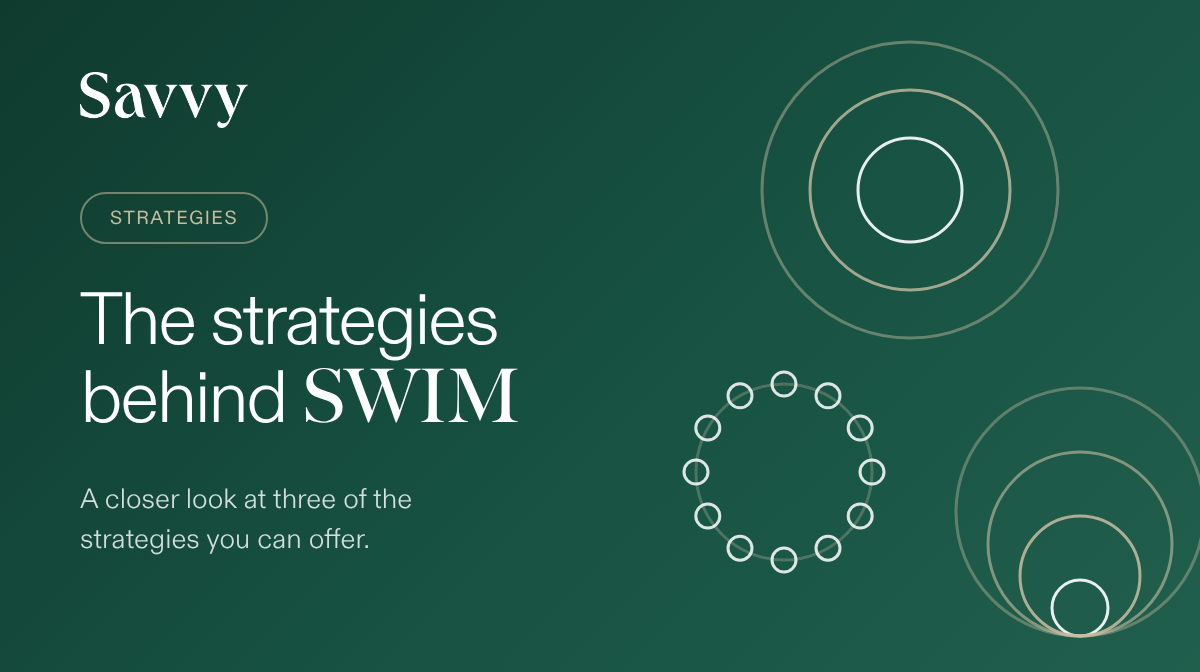
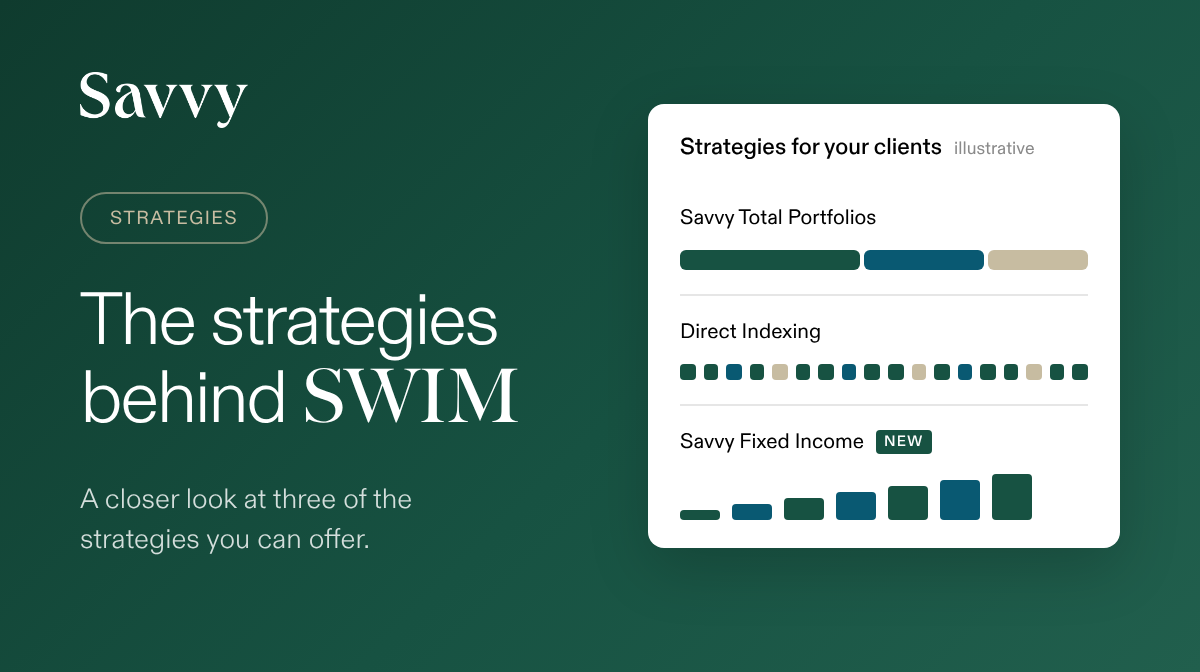
Email 4: abstract strategies UI card in header
Claude-Session: https://claude.ai/code/session_01C4U8FBFynJxChWkXC4yVRQ

diff --git a/emails/header-4.html b/emails/header-4.html
@@ -37,7 +37,7 @@
     <h1>The strategies<br>behind <span class='serif'>SWIM</span></h1>
     <div class="sub">A closer look at three of the<br>strategies you can offer.</div>
   </div>
-  <svg class="art" width="600" height="336" viewBox="0 0 600 336" fill="none" stroke-width="1.5"><g><circle cx="455" cy="95" r="26" stroke="#fff" stroke-opacity=".9"/><circle cx="455" cy="95" r="50" stroke="#C7BCA1" stroke-opacity=".8"/><circle cx="455" cy="95" r="74" stroke="#C7BCA1" stroke-opacity=".45"/></g><g><circle cx="392" cy="236" r="44" stroke="#C7BCA1" stroke-opacity=".3"/><circle cx="392.0" cy="192.0" r="6" stroke="#fff" stroke-opacity=".85"/><circle cx="414.0" cy="197.9" r="6" stroke="#fff" stroke-opacity=".85"/><circle cx="430.1" cy="214.0" r="6" stroke="#fff" stroke-opacity=".85"/><circle cx="436.0" cy="236.0" r="6" stroke="#fff" stroke-opacity=".85"/><circle cx="430.1" cy="258.0" r="6" stroke="#fff" stroke-opacity=".85"/><circle cx="414.0" cy="274.1" r="6" stroke="#fff" stroke-opacity=".85"/><circle cx="392.0" cy="280.0" r="6" stroke="#fff" stroke-opacity=".85"/><circle cx="370.0" cy="274.1" r="6" stroke="#fff" stroke-opacity=".85"/><circle cx="353.9" cy="258.0" r="6" stroke="#fff" stroke-opacity=".85"/><circle cx="348.0" cy="236.0" r="6" stroke="#fff" stroke-opacity=".85"/><circle cx="353.9" cy="214.0" r="6" stroke="#fff" stroke-opacity=".85"/><circle cx="370.0" cy="197.9" r="6" stroke="#fff" stroke-opacity=".85"/></g><g><circle cx="540" cy="304" r="14" stroke="#fff" stroke-opacity="0.9"/><circle cx="540" cy="288" r="30" stroke="#C7BCA1" stroke-opacity="0.85"/><circle cx="540" cy="272" r="46" stroke="#C7BCA1" stroke-opacity="0.6"/><circle cx="540" cy="256" r="62" stroke="#C7BCA1" stroke-opacity="0.4"/></g></svg>
-  <div class="right"></div>
+  
+  <div class="right"><div class="card" style="padding:14px 16px 2px;"><div style="display:flex;align-items:baseline;gap:6px;font-size:11.5px;font-weight:500;margin-bottom:10px;">Strategies for your clients <span style="font-weight:400;font-size:9px;color:#8a8a8a;">illustrative</span></div><div style="padding:12px 0;"><div style="font-size:10.5px;line-height:13px;">Savvy Total Portfolios</div><div style="margin-top:9px;"><div style="display:flex;gap:2px;height:10px;"><div style="flex:45;background:#175242;border-radius:3px;"></div><div style="flex:30;background:#095972;border-radius:3px;"></div><div style="flex:25;background:#C7BCA1;border-radius:3px;"></div></div></div></div><div style="padding:12px 0;border-top:1px solid #E6E6E6;"><div style="font-size:10.5px;line-height:13px;">Direct Indexing</div><div style="margin-top:9px;"><div style="display:flex;gap:4px;"><div style="width:8px;height:8px;border-radius:2px;background:#175242;"></div><div style="width:8px;height:8px;border-radius:2px;background:#175242;"></div><div style="width:8px;height:8px;border-radius:2px;background:#095972;"></div><div style="width:8px;height:8px;border-radius:2px;background:#175242;"></div><div style="width:8px;height:8px;border-radius:2px;background:#C7BCA1;"></div><div style="width:8px;height:8px;border-radius:2px;background:#175242;"></div><div style="width:8px;height:8px;border-radius:2px;background:#175242;"></div><div style="width:8px;height:8px;border-radius:2px;background:#095972;"></div><div style="width:8px;height:8px;border-radius:2px;background:#175242;"></div><div style="width:8px;height:8px;border-radius:2px;background:#175242;"></div><div style="width:8px;height:8px;border-radius:2px;background:#C7BCA1;"></div><div style="width:8px;height:8px;border-radius:2px;background:#175242;"></div><div style="width:8px;height:8px;border-radius:2px;background:#095972;"></div><div style="width:8px;height:8px;border-radius:2px;background:#175242;"></div><div style="width:8px;height:8px;border-radius:2px;background:#175242;"></div><div style="width:8px;height:8px;border-radius:2px;background:#C7BCA1;"></div><div style="width:8px;height:8px;border-radius:2px;background:#175242;"></div><div style="width:8px;height:8px;border-radius:2px;background:#175242;"></div></div></div></div><div style="padding:12px 0;border-top:1px solid #E6E6E6;"><div style="font-size:10.5px;line-height:13px;">Savvy Fixed Income<span style="display:inline-block;margin-left:6px;padding:2px 4px;background:#175242;border-radius:2px;font-size:7.5px;line-height:8px;letter-spacing:.08em;text-transform:uppercase;color:#fff;font-weight:500;vertical-align:1px;">New</span></div><div style="margin-top:9px;"><div style="display:flex;align-items:flex-end;gap:6px;height:23px;"><div style="width:20px;height:5px;border-radius:2px;background:#175242;"></div><div style="width:20px;height:8px;border-radius:2px;background:#095972;"></div><div style="width:20px;height:11px;border-radius:2px;background:#175242;"></div><div style="width:20px;height:14px;border-radius:2px;background:#095972;"></div><div style="width:20px;height:17px;border-radius:2px;background:#175242;"></div><div style="width:20px;height:20px;border-radius:2px;background:#095972;"></div><div style="width:20px;height:23px;border-radius:2px;background:#175242;"></div></div></div></div></div></div>
 </div>
 </body></html>

diff --git a/emails/build_emails.py b/emails/build_emails.py
@@ -57,7 +57,26 @@ def tiles(labels):
     return '<div class="tiles">' + "".join(f'<div class="tile"><span>{l}</span>{ARROW}</div>' for l in labels) + '</div>'
 
 
-ART4 = '''<svg class="art" width="600" height="336" viewBox="0 0 600 336" fill="none" stroke-width="1.5"><g><circle cx="455" cy="95" r="26" stroke="#fff" stroke-opacity=".9"/><circle cx="455" cy="95" r="50" stroke="#C7BCA1" stroke-opacity=".8"/><circle cx="455" cy="95" r="74" stroke="#C7BCA1" stroke-opacity=".45"/></g><g><circle cx="392" cy="236" r="44" stroke="#C7BCA1" stroke-opacity=".3"/><circle cx="392.0" cy="192.0" r="6" stroke="#fff" stroke-opacity=".85"/><circle cx="414.0" cy="197.9" r="6" stroke="#fff" stroke-opacity=".85"/><circle cx="430.1" cy="214.0" r="6" stroke="#fff" stroke-opacity=".85"/><circle cx="436.0" cy="236.0" r="6" stroke="#fff" stroke-opacity=".85"/><circle cx="430.1" cy="258.0" r="6" stroke="#fff" stroke-opacity=".85"/><circle cx="414.0" cy="274.1" r="6" stroke="#fff" stroke-opacity=".85"/><circle cx="392.0" cy="280.0" r="6" stroke="#fff" stroke-opacity=".85"/><circle cx="370.0" cy="274.1" r="6" stroke="#fff" stroke-opacity=".85"/><circle cx="353.9" cy="258.0" r="6" stroke="#fff" stroke-opacity=".85"/><circle cx="348.0" cy="236.0" r="6" stroke="#fff" stroke-opacity=".85"/><circle cx="353.9" cy="214.0" r="6" stroke="#fff" stroke-opacity=".85"/><circle cx="370.0" cy="197.9" r="6" stroke="#fff" stroke-opacity=".85"/></g><g><circle cx="540" cy="304" r="14" stroke="#fff" stroke-opacity="0.9"/><circle cx="540" cy="288" r="30" stroke="#C7BCA1" stroke-opacity="0.85"/><circle cx="540" cy="272" r="46" stroke="#C7BCA1" stroke-opacity="0.6"/><circle cx="540" cy="256" r="62" stroke="#C7BCA1" stroke-opacity="0.4"/></g></svg>'''
+def _seg(w, c): return f'<td width="{w}" bgcolor="{c}" style="width:{w}px;background:{c};height:10px;font-size:0;line-height:0;">&nbsp;</td>'
+
+
+def strategy_card():
+    G, T, E, GOLD_ = "#175242", "#095972", "#C7BCA1", "#8E7E57"
+    seg = (f'<div style="display:flex;gap:2px;height:10px;"><div style="flex:45;background:{G};border-radius:3px;"></div>'
+           f'<div style="flex:30;background:{T};border-radius:3px;"></div><div style="flex:25;background:{E};border-radius:3px;"></div></div>')
+    pat = [G, G, T, G, E, G, G, T, G, G, E, G, T, G, G, E, G, G]
+    dots = '<div style="display:flex;gap:4px;">' + "".join(f'<div style="width:8px;height:8px;border-radius:2px;background:{c};"></div>' for c in pat) + '</div>'
+    hs = [5, 8, 11, 14, 17, 20, 23]
+    stairs = '<div style="display:flex;align-items:flex-end;gap:6px;height:23px;">' + "".join(f'<div style="width:20px;height:{h}px;border-radius:2px;background:{G if i % 2 == 0 else T};"></div>' for i, h in enumerate(hs)) + '</div>'
+
+    def row(label, visual, first=False, new=False):
+        tag = '<span style="display:inline-block;margin-left:6px;padding:2px 4px;background:#175242;border-radius:2px;font-size:7.5px;line-height:8px;letter-spacing:.08em;text-transform:uppercase;color:#fff;font-weight:500;vertical-align:1px;">New</span>' if new else ''
+        bt = '' if first else 'border-top:1px solid #E6E6E6;'
+        return f'<div style="padding:12px 0;{bt}"><div style="font-size:10.5px;line-height:13px;">{label}{tag}</div><div style="margin-top:9px;">{visual}</div></div>'
+    return ('<div class="card" style="padding:14px 16px 2px;">'
+            '<div style="display:flex;align-items:baseline;gap:6px;font-size:11.5px;font-weight:500;margin-bottom:10px;">Strategies for your clients <span style="font-weight:400;font-size:9px;color:#8a8a8a;">illustrative</span></div>'
+            + row("Savvy Total Portfolios", seg, first=True) + row("Direct Indexing", dots) + row("Savvy Fixed Income", stairs, new=True) + '</div>')
+
 
 HEADERS = {
     2: dict(eyebrow="Meet the team", h1="The people<br>behind <span class='serif'>SWIM</span>", fs=40,
@@ -70,7 +89,7 @@ HEADERS = {
             alt="What SWIM gives your practice. The benefits behind the numbers."),
     4: dict(eyebrow="Strategies", h1="The strategies<br>behind <span class='serif'>SWIM</span>", fs=37,
             sub="A closer look at three of the<br>strategies you can offer.",
-            art=ART4,
+            graphic=strategy_card(),
             alt="The strategies behind SWIM. A closer look at three of the strategies you can offer."),
     5: dict(eyebrow="Straight answers", h1="Questions<br>about <span class='serif'>SWIM</span>", fs=40,
             sub="Time, taxes, and how SWIM<br>fits your approach.",
